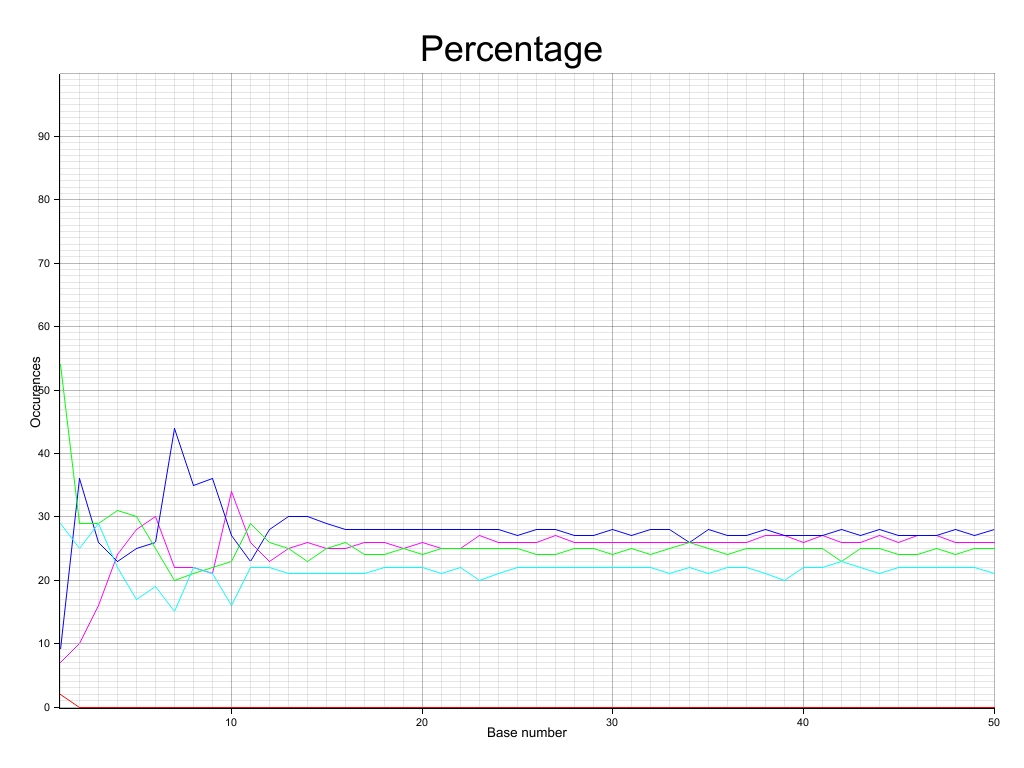
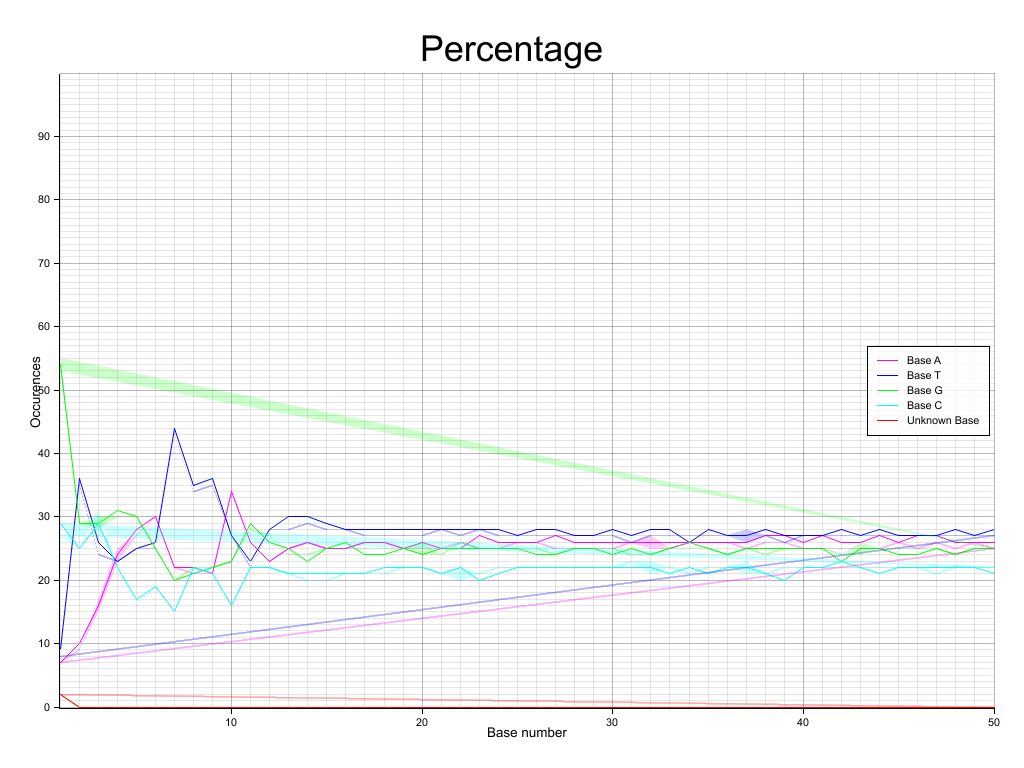
Fixed lib display problems

diff --git a/src/lib.rs b/src/lib.rs
@@ -358,7 +358,8 @@ pub mod base_extraction {
         #[test]
         fn test_percentage () {
             assert_eq!(run_with_content(b"AA\nTA\nGA\nCA\nNA\n"),
-                std::str::from_utf8(br#"[{"pos":0,"A":20,"T":20,"G":20,"C":20,"N":20},{"pos":1,"A":100,"T":0,"G":0,"C":0,"N":0}]"#).unwrap())
+                std::str::from_utf8(br#"2
+[{"pos":1,"A":20,"T":20,"G":20,"C":20,"N":20},{"pos":2,"A":100,"T":0,"G":0,"C":0,"N":0}]"#).unwrap())
         }
 
         use crate::fastq_io;
@@ -504,12 +505,12 @@ pub mod plot_comp {
         fn test_calc_mean() {
             assert_eq!(calc_mean(&vec![
                 vec![
-                    Read {pos: 0, A: 25, T: 0, G: 75, C: 0, N: 10},
+                    Read {pos: 1, A: 7, T: 8, G: 55, C: 27, N: 2},
                 ],
                 vec![
-                    Read {pos: 0, A: 75, T: 100, G: 100, C: 0, N: 10},
-            ]], 0, 2), 
-            Read {pos: 0, A: 50, T: 50, G: 87, C: 0, N: 10}
+                    Read {pos: 1, A: 7, T: 8, G: 53, C: 30, N: 2},
+            ]], 0), 
+            Read {pos: 1, A: 7, T: 8, G: 54, C: 28, N: 2}
             )
         }
 
@@ -521,7 +522,8 @@ pub mod plot_comp {
                 ],
                 vec![
                     Read {pos: 0, A: 75, T: 100, G: 100, C: 0, N: 10},
-            ]], Read {pos: 0, A: 50, T: 50, G: 87, C: 0, N: 10}, 0, 2), //This is mean of above values 
+            ]], Read {pos: 0, A: 50, T: 50, G: 87, C: 0, N: 10},
+             0), //This is mean of above values 
             Read {pos: 0, A: 25, T: 50, G: 12, C: 0, N: 0}
             )
         }
@@ -541,12 +543,12 @@ pub mod plot_comp {
         //Read next line for JSON data
         reader.read_line(&mut s).expect("Error reading line");
         let mut comp: Vec<Read> = serde_json::from_str(&s).expect("Error converting JSON to data");
-        comp.sort_by(|a, b| b.pos.cmp(&a.pos));
+        comp.sort_by(|a, b| a.pos.cmp(&b.pos));
 
         (x_len, comp)
     }
     
-    fn calc_mean (libs: &Vec<Vec<Read>>, pos: usize, max_len: usize) -> Read {
+    fn calc_mean (libs: &Vec<Vec<Read>>, pos: usize) -> Read {
         Read::from_iter(libs.iter()
         .map(move |lib| lib[pos]) //Get reads at pos of lib
         .fold(Read::new(pos), // Initial value: new read
@@ -558,10 +560,10 @@ pub mod plot_comp {
                 .map(|x| x.0 + x.1) // Add their corresponding elements
             , pos)) 
         .as_arr().iter()
-        .map(|x| x / max_len), pos)
+        .map(|x| x / libs.len()), pos + 1)
     }
 
-    fn calc_sd (libs: &Vec<Vec<Read>>, mean: Read, pos: usize, max_len: usize) -> Read {
+    fn calc_sd (libs: &Vec<Vec<Read>>, mean: Read, pos: usize) -> Read {
         Read::from_iter(libs.iter()
             .map(move |lib| lib[pos]) //Get reads at pos of lib
             // Get differences from mean
@@ -569,18 +571,18 @@ pub mod plot_comp {
                 read.as_arr().iter() // Convert read to iterator over its elements
                 .zip(mean.as_arr().iter()) // Zip it with iterator over mean's elements
                 .map(|x| (*x.0 as isize - *x.1 as isize).abs() as usize) // Get difference b/w mean and element
-                .map(|x| x * x), pos)) // Square difference
+                .map(|x| x * x), pos + 1)) // Square difference
             // Read::from_iter then converts it back into a Read
             
             // Get average of differences (squared)
-            .fold(Read::new(pos),
+            .fold(Read::new(pos + 1),
                 |acc, curr| Read::from_iter(
                     acc.as_arr().iter() //Convert accumulated Read to its elements' iterator
                     .zip(curr.as_arr().iter()) //Zip with current Read's elements' iterator
                     .map(|x| x.0 + x.1) // Add the two numbers
                 , pos)) //Calculates sum
             .as_arr().iter()
-            .map(|x| x / max_len) // Get average
+            .map(|x| x / libs.len()) // Get average
             .map(|x| (x as f64).sqrt() as usize) // Get square root of average
         //Read::from_iter turns the iterators of elements back into a read
 
@@ -648,9 +650,9 @@ pub mod plot_comp {
 
             println!("x_len: {}", x_len);
             for pos in 0..x_len {
-                mean.push(calc_mean(&libs, pos, x_len));
-                sd.push(calc_sd(&libs, mean[pos], pos, x_len));
-                println!("pos is: {}", pos);
+                mean.push(calc_mean(&libs, pos));
+                sd.push(calc_sd(&libs, mean[pos], pos));
+                println!("Data was: {:?}, {:?}", libs[0][pos], libs[1][pos]);
                 println!("mean is: {:?}. sd is: {:?}", mean[pos], sd[pos]);
             }
 
@@ -669,10 +671,13 @@ pub mod plot_comp {
             ].iter()) {
                 chart
                     .draw_series(std::iter::once(Polygon::new(
-                        (0..x_len).map(|x| (x, (i.1)(&mean[x]) - i.1(&sd[x]))).chain(
-                        (0..x_len).map(|x| (x, (i.1)(&mean[x]) + i.1(&sd[x]))))
+                        (0..x_len)
+                            .map(|x| (x + 1, (i.1)(&mean[x]) as isize - (i.1)(&sd[x]) as isize))
+                            .map(|x| (x.0, if x.1 < 0 {0usize} else {x.1 as usize})) //Round off may cause -ve value, so replace them with 0
+                            .chain(
+                            (0..x_len).map(|x| (x + 1, (i.1)(&mean[x]) + (i.1)(&sd[x]))))
                         .collect::<Vec<(usize, usize)>>(),
-                        *i.0
+                        &i.0.mix(0.2)
                     )))?;
             }
         }
